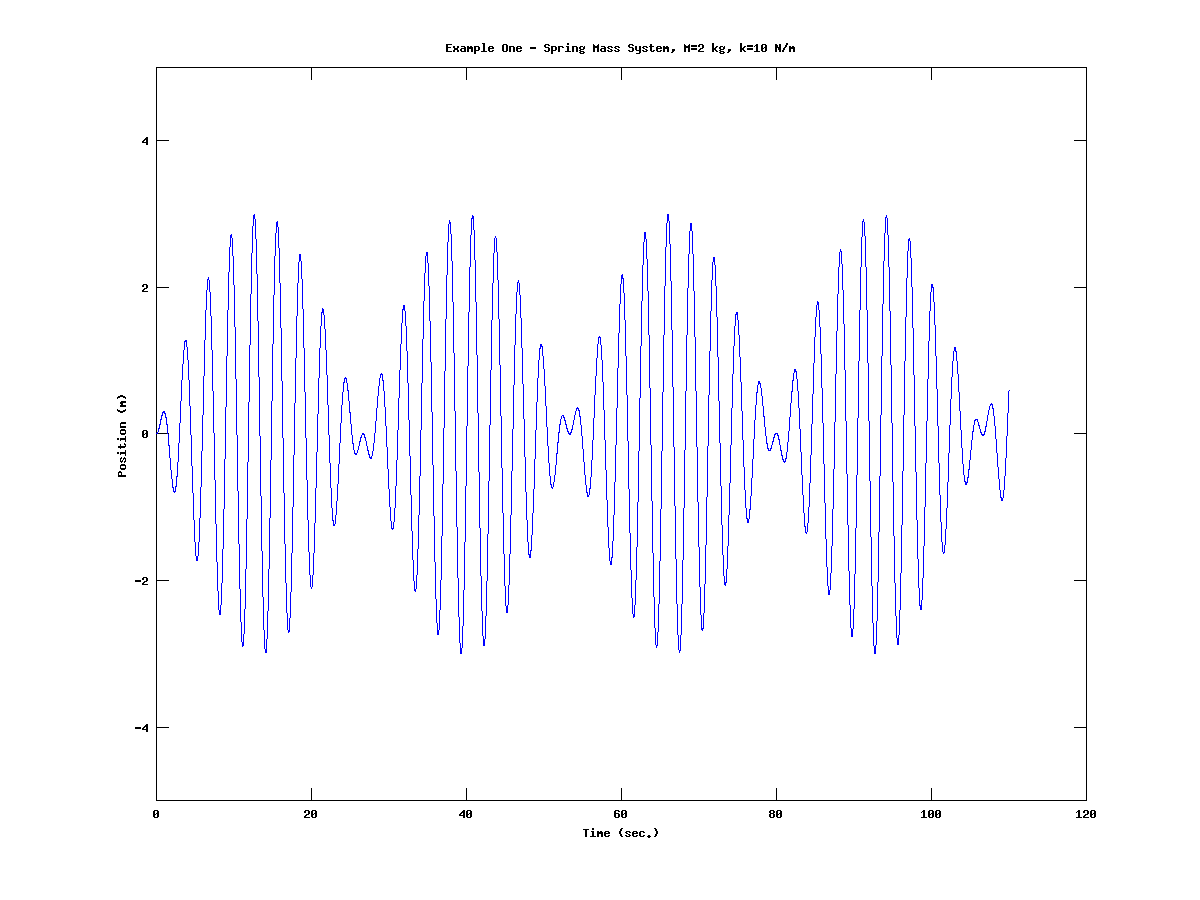
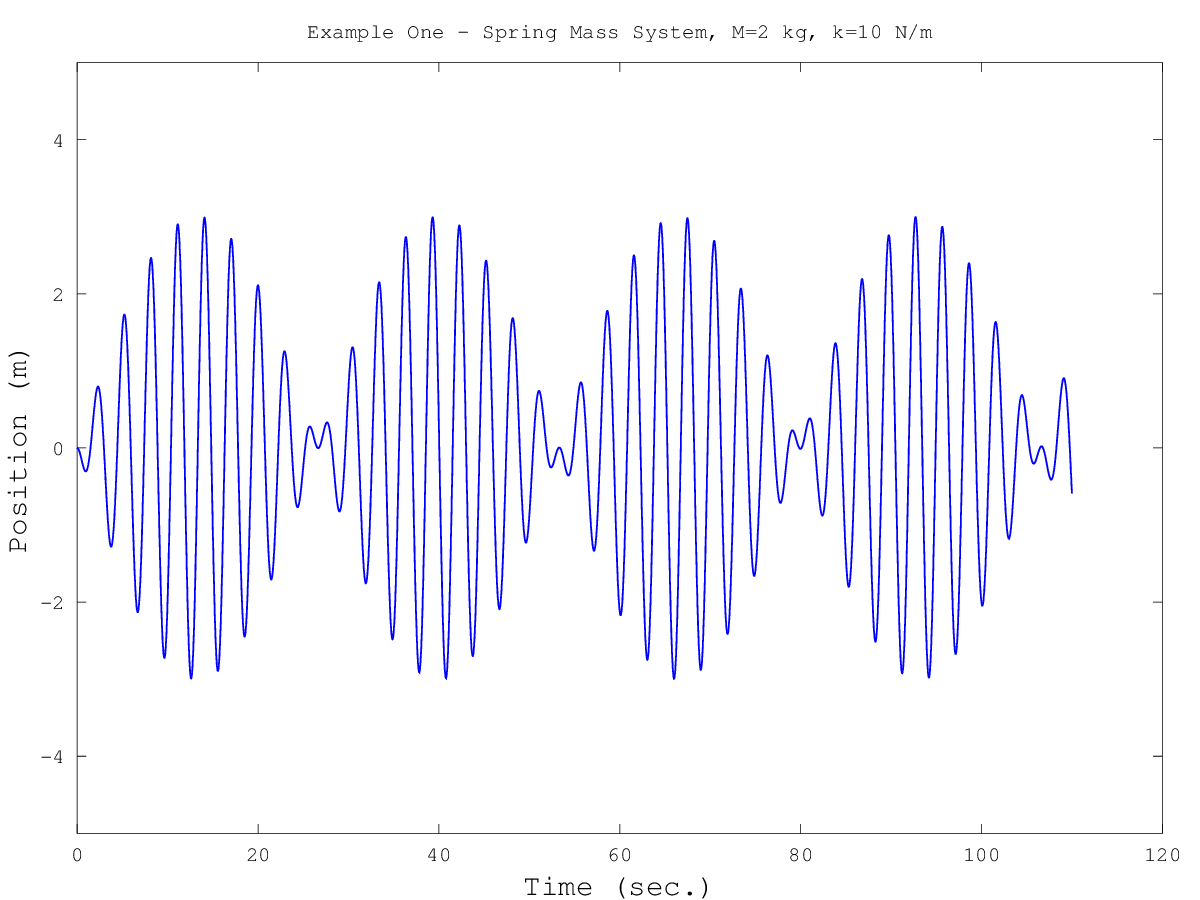
Made changes to the lecture on forced oscillations.

diff --git a/notes/forcedOscillations.tex b/notes/forcedOscillations.tex
@@ -3,8 +3,8 @@
 \section{Forced Oscillations}
 
 \title{Ordinary Differential Equations}
-\subtitle{Math 232 - Week 9, Day 2}
-\date{26 October 2012}
+\subtitle{Math 232 - Forced Oscillations}
+\date{22 October 2012}
 
 \begin{frame}
   \titlepage
@@ -22,6 +22,8 @@
 \begin{frame}
   \frametitle{Forced Oscillations}
 
+  \includegraphics[width=6cm]{img/springMassStatic}
+
   Section 4.1 - Redux: The governing equation for a mass/spring system
   is
   \begin{eqnarray*}
@@ -32,7 +34,7 @@
 
   The function $f(t)$ is called the \textit{forcing function}.
 
-  This is a conceptual model for many physical systems.
+  This is a \underline{\textit{conceptual model}} for many physical systems.
 
 \end{frame}
 
@@ -40,7 +42,7 @@
 \begin{frame}
   \frametitle{Special Case}
 
-  Periodic forcing:
+  Suppose that we have a periodic forcing:
   \begin{eqnarray*}
     f(t) & = & F_0 \cos(\omega t), \\
     x(0) & = & 0, \\
@@ -51,6 +53,9 @@
   \begin{eqnarray*}
     m x'' + kx & = & F_0 \cos(\omega t).
   \end{eqnarray*}
+
+  This is an idealized system used to gain insight into real physical
+  systems. It allows us to ask \textit{``what if....?''}
 
 \end{frame}
 
@@ -67,6 +72,8 @@
   \begin{eqnarray*}
     x_p & = & \frac{F_0}{m\lp\frac{k}{m}-\omega^2\rp} \cos(\omega t).
   \end{eqnarray*}
+
+  \uncover<2->{You should be able to show this on your own using ideas we have already covered in class.}
 
 \end{frame}
 
@@ -97,11 +104,16 @@
     \Rightarrow C_2 & = & 0.
   \end{eqnarray*}
 
-  The solution is 
-  \begin{eqnarray*}
-    x & = & \frac{-F_0}{m\lp\frac{k}{m}-\omega^2\rp} \cos\lp\sqrt{\frac{k}{m}}t\rp 
-    + \frac{F_0}{m\lp\frac{k}{m}-\omega^2\rp} \cos(\omega t).
-  \end{eqnarray*}
+  \uncover<2->
+  {
+    The solution is 
+    \redText{
+      \begin{eqnarray*}
+        x & = & \frac{-F_0}{m\lp\frac{k}{m}-\omega^2\rp} \cos\lp\sqrt{\frac{k}{m}}t\rp 
+        + \frac{F_0}{m\lp\frac{k}{m}-\omega^2\rp} \cos(\omega t).
+      \end{eqnarray*}
+    }
+  }
 
 
 \end{frame}
@@ -110,6 +122,7 @@
 \begin{frame}
   \frametitle{Obvious Trigonometric Identity}
 
+  As we \textbf{all} know
   \begin{eqnarray*}
     \cos(u) - \cos(v) & = & -2 \sin\lp\frac{u-v}{2}\rp \sin\lp\frac{u+v}{2}\rp.
   \end{eqnarray*}
@@ -125,6 +138,69 @@
 \end{frame}
 
 \subsection{Example}
+
+\iftoggle{clicker}{%
+\begin{frame}
+  \frametitle{Clicker Quiz}
+
+      \ifnum\value{clickerQuiz}=1{%
+
+        \vfill
+
+        Determine the homogeneous solution to the differential equation
+        \begin{eqnarray*}
+          2 x'' + 10 x & = & 3 \cos(2t)
+        \end{eqnarray*}
+
+
+        \vfill
+
+        \begin{tabular}{ll}
+          A: & $x=C_1\cos(5t) + C_2\sin(5t)$ \\
+          B: & $x=C_1\cos(\sqrt{5}t) + C_2\sin(\sqrt{5}t)$ \\
+          C: & $x=C_1e^{5t} + C_2 t e^{5t}$ \\
+          D: & $x=C_1e^{\sqrt{5t}} + C_2 t e^{\sqrt{5}t}$ \\
+        \end{tabular}
+
+
+        \vfill
+
+      }\fi
+
+      \ifnum\value{clickerQuiz}=2{%
+
+        \vfill
+
+        Determine the homogeneous solution to the differential equation
+        \begin{eqnarray*}
+          2 x'' + 10 x & = & 3 \cos(2t)
+        \end{eqnarray*}
+
+
+        \vfill
+
+        \begin{tabular}{ll}
+          A: & $x=C_1e^{5t} + C_2 t e^{5t}$ \\
+          B: & $x=C_1e^{\sqrt{5t}} + C_2 t e^{\sqrt{5}t}$ \\
+          C: & $x=C_1\cos(5t) + C_2\sin(5t)$ \\
+          D: & $x=C_1\cos(\sqrt{5}t) + C_2\sin(\sqrt{5}t)$ \\
+        \end{tabular}
+
+
+        \vfill
+
+     }\fi
+   
+     \ifnum\value{clickerQuiz}=3{%
+
+        \vfill
+
+    }\fi
+  
+
+\end{frame}
+}
+
 
 \begin{frame}                   
   \frametitle{The problem}      
@@ -145,6 +221,30 @@
 
 
 \begin{frame}
+  \frametitle{Solution}
+
+  \begin{eqnarray*}
+    2 x'' + 10 x & = & 3 \cos(2t), \\
+    x(0) & = & 0, \\
+    x'(0) & = & 0.
+  \end{eqnarray*}
+
+  The solution is 
+  \begin{eqnarray*}
+    x(t) & = & -\frac{3}{2}\cos(\sqrt{5} t) + \frac{3}{2} \sin(\sqrt{5} t), \\
+         & = & \frac{3}{2} \left[ -\cos(\sqrt{5} t) + \sin(\sqrt{5} t) \right], \\
+         \only<1>{%
+           & = & 3 \sin\lp\frac{2-\sqrt{5}}{2}t\rp \sin\lp\frac{2+\sqrt{5}}{2} t\rp.
+         }
+         \only<2->{%
+           & = & 3 \sin\lp\underbrace{\frac{2-\sqrt{5}}{2}}_{\mathrm{long~wave}}t\rp 
+                   \sin\lp\underbrace{\frac{2+\sqrt{5}}{2}}_{\mathrm{short~wave}} t\rp.
+         }
+  \end{eqnarray*}
+
+\end{frame}
+
+\begin{frame}
   \frametitle{Plots}
 
   \only<1>{\centerline{\includegraphics[width=11cm]{img/beats}}}
@@ -155,6 +255,61 @@
 \end{frame}
 
 
+
+\begin{frame}
+  \frametitle{The problem}      
+                                
+  A two kilogram mass is attached to a spring with constant ten N/m on
+  a horizontal table. The mass is driven with a periodic force of
+  \begin{eqnarray*}
+    f(t) & = & 3 \cos(\sqrt{5} t).
+  \end{eqnarray*}
+  the system is started from rest at the equilibrium point.
+
+  Governing equation:
+  \begin{eqnarray*}
+    2 x'' + 10 x & = & 3 \cos(\sqrt{5} t)
+  \end{eqnarray*}
+
+\end{frame}
+
+
+\begin{frame}
+  \frametitle{Solution}
+
+  \begin{eqnarray*}
+    2 x'' + 10 x & = & 3 \cos(\sqrt{5} t), \\
+    x(0) & = & 0, \\
+    x'(0) & = & 0.
+  \end{eqnarray*}
+
+  The homogeneous solution is 
+  \begin{eqnarray*}
+    x_h & = & C_1 \cos(\sqrt{5} t) + C_2 \sin(\sqrt{5} t).
+  \end{eqnarray*}
+
+  \only<2->
+  {
+    Guess a particular solution,
+    \begin{eqnarray*}
+      x_p & = & A t \cos(\sqrt{5} t) + B t \sin(\sqrt{5} t).
+    \end{eqnarray*}
+  }
+
+\end{frame}
+
+\begin{frame}
+  \frametitle{The Solution}
+
+  \begin{eqnarray*}
+    x(t) & = & C_1 \cos(\sqrt{5}t) + C_2\sin(\sqrt{5} t) + \frac{3}{4\sqrt{5}} t \sin(\sqrt{5}t), \\
+         & = & \frac{3}{4\sqrt{5}} t \sin(\sqrt{5}t).
+  \end{eqnarray*}
+
+  \only<2>{\centerline{\includegraphics[width=5cm]{img/resonance}}}
+  \only<3>{\centerline{\includegraphics[width=5cm]{img/resonanceBounds}}}
+
+\end{frame}
 
 
 % LocalWords:  Clarkson pausesection hideothersubsections

diff --git a/notes/m/beat.m b/notes/m/beat.m
@@ -2,10 +2,10 @@
 clf
 
 t = 0:0.01:110;
-plot(t,-3*sin((2-sqrt(5))/2*t).*sin((2+sqrt(5))/2*t))
+plot(t,3*sin((2-sqrt(5))/2*t).*sin((2+sqrt(5))/2*t),'LineWidth',3.0)
 title('Example One - Spring Mass System, M=2 kg, k=10 N/m')
-xlabel('Time (sec.)')
-ylabel('Position (m)')
+xlabel('Time (sec.)','FontSize',14,'fontweight','normal')
+ylabel('Position (m)','FontSize',14,'fontweight','normal')
 axis([0 120 -5 5])
 print -dpng beats.png
 pause
@@ -14,26 +14,26 @@ hold on
 T0 = 2*pi/(sqrt(5)-2);
 PERIOD = 4*pi/(-2+sqrt(5));
 T = [T0:0.01:T0+PERIOD];
-plot(T,3*sin((2-sqrt(5))/2*T),'r')
-plot([T0 T0],[0 4],'k');
-plot([T0+PERIOD T0+PERIOD],[0 4],'k');
-plot([T0 T0+PERIOD*0.3],[3.8 3.8],'k');
-plot([T0+PERIOD T0+PERIOD*0.7],[3.8 3.8],'k');
-text(T0+PERIOD*0.42,3.8,'Period')
-text(T0+PERIOD*0.42,4.2,'Long')
+plot(T,3*sin((2-sqrt(5))/2*T),'r','LineWidth',3.0)
+plot([T0 T0],[0 4],'k','LineWidth',3.0);
+plot([T0+PERIOD T0+PERIOD],[0 4],'k','LineWidth',3.0);
+plot([T0 T0+PERIOD*0.3],[3.8 3.8],'k','LineWidth',3.0);
+plot([T0+PERIOD T0+PERIOD*0.7],[3.8 3.8],'k','LineWidth',3.0);
+text(T0+PERIOD*0.42,3.8,'Period','FontSize',14,'fontweight','normal')
+text(T0+PERIOD*0.42,4.2,'Long','FontSize',14,'fontweight','normal')
 pause
 print -dpng beatsLong.png
 
 smallPeriod = 4.0*pi/(2.0+sqrt(5.0));
 smallStart = 20.0*smallPeriod;
 smallEnd   = 21.0*smallPeriod;
-plot([smallStart smallStart],[0 -4.0],'k')
-plot([smallEnd smallEnd],[0 -4.0],'k')
-plot([smallEnd smallEnd+2],[-3.8 -3.8],'k')
-plot([smallStart smallStart-2],[-3.8 -3.8],'k')
-text(smallEnd+3,-3.8,'Short Period')
+plot([smallStart smallStart],[0 -4.0],'k','LineWidth',3.0)
+plot([smallEnd smallEnd],[0 -4.0],'k','LineWidth',3.0)
+plot([smallEnd smallEnd+2],[-3.8 -3.8],'k','LineWidth',3.0)
+plot([smallStart smallStart-2],[-3.8 -3.8],'k','LineWidth',3.0)
+text(smallEnd+3,-3.8,'Short Period','FontSize',14,'fontweight','normal')
 
 t = [smallStart:0.01:smallEnd];
-plot(t,3*sin((2-sqrt(5))/2*t).*sin((2+sqrt(5))/2*t),'g')
+plot(t,3*sin((2-sqrt(5))/2*t).*sin((2+sqrt(5))/2*t),'g','LineWidth',3.0)
 pause
 print -dpng beatsShort.png

diff --git a/notes/m/resonance.m b/notes/m/resonance.m
@@ -1,7 +1,7 @@
 
 clf
 t = 0:0.01:50.0;
-plot(t,3/4/sqrt(5)*t.*sin(sqrt(5)*t),'LineWidth',2.0)
+plot(t,3/4/sqrt(5)*t.*sin(sqrt(5)*t),'LineWidth',3.0)
 title('Example Two - Spring Mass System, M=2 kg, k=10 N/m')
 xlabel('Time (sec.)','FontSize',14,'fontweight','normal')
 ylabel('Position (m)','FontSize',14,'fontweight','normal')
@@ -9,6 +9,6 @@ axis([0 50 -15 15])
 print -dpng resonance.png
 
 hold on
-plot(t,3/4/sqrt(5)*t,':r')
-plot(t,-3/4/sqrt(5)*t,':r')
+plot(t,3/4/sqrt(5)*t,':r','LineWidth',2.0)
+plot(t,-3/4/sqrt(5)*t,':r','LineWidth',2.0)
 print -dpng resonanceBounds.png

diff --git a/notes/DifferentialEquations.tex b/notes/DifferentialEquations.tex
@@ -33,7 +33,7 @@
 \toggletrue{clicker}
 %\togglefalse{clicker}
 \newcounter{clickerQuiz} % Create a counter to determine which clicker quiz to give
-\setcounter{clickerQuiz}{3} % Set the counter to 1, 2, or 3 for the section number
+\setcounter{clickerQuiz}{1} % Set the counter to 1, 2, or 3 for the section number
 
 \begin{document}
 

diff --git a/notes/undeterminedCoefficientsII.tex b/notes/undeterminedCoefficientsII.tex
@@ -338,7 +338,7 @@
   \frametitle{Example}
 
   \begin{eqnarray*}
-    t^2 y'' + t y' - 3t & = & 0.
+    t^2 y'' + t y' - 3y & = & 0.
   \end{eqnarray*}
 
   \uncover<2->{%
